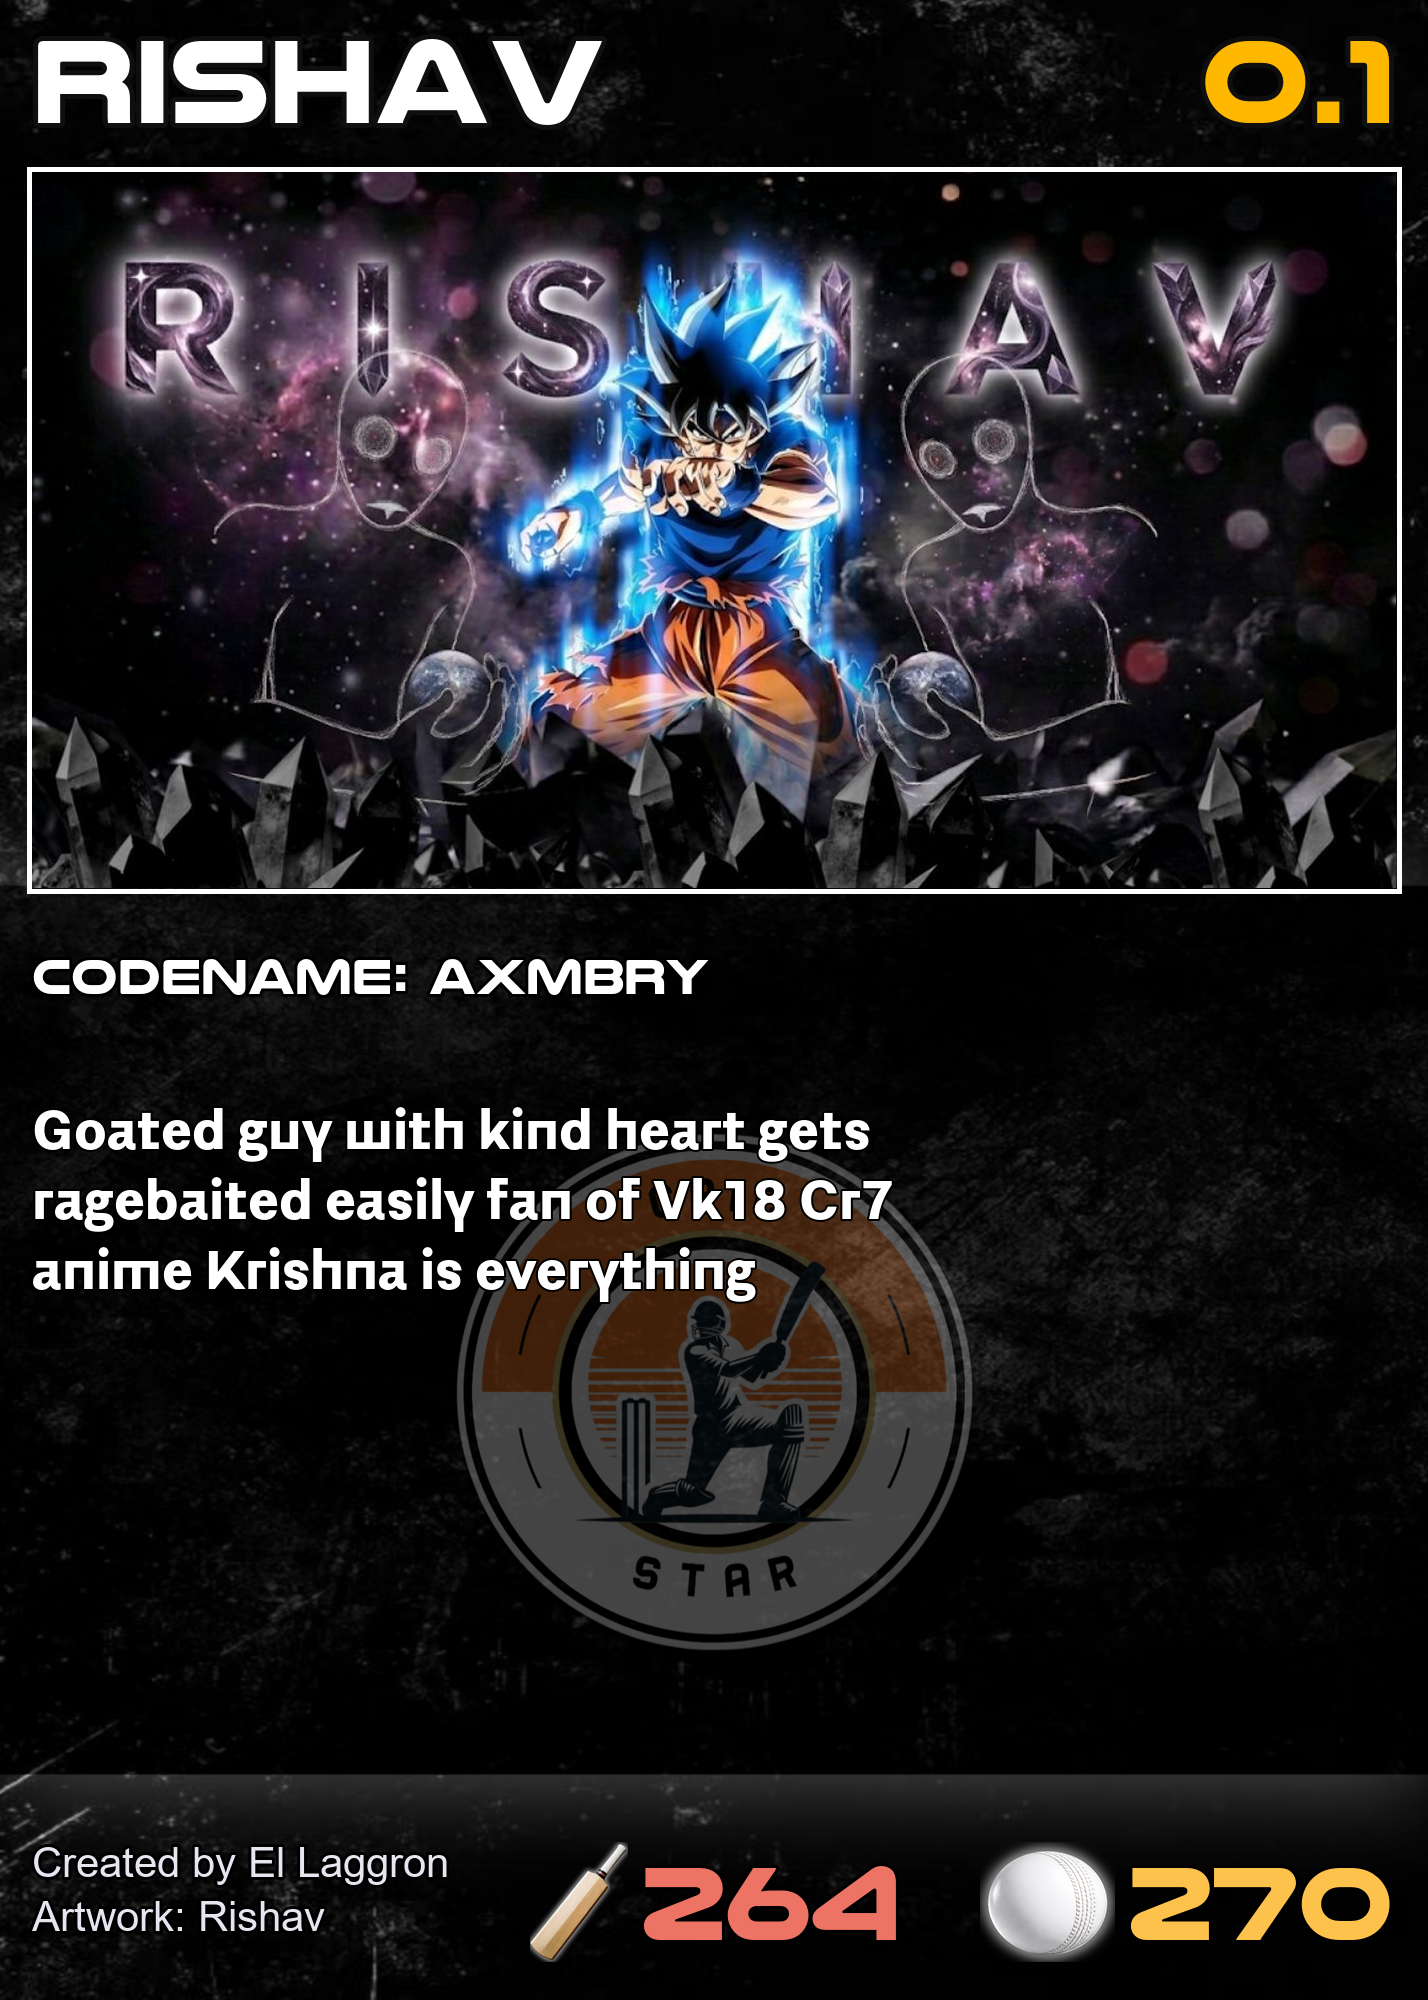
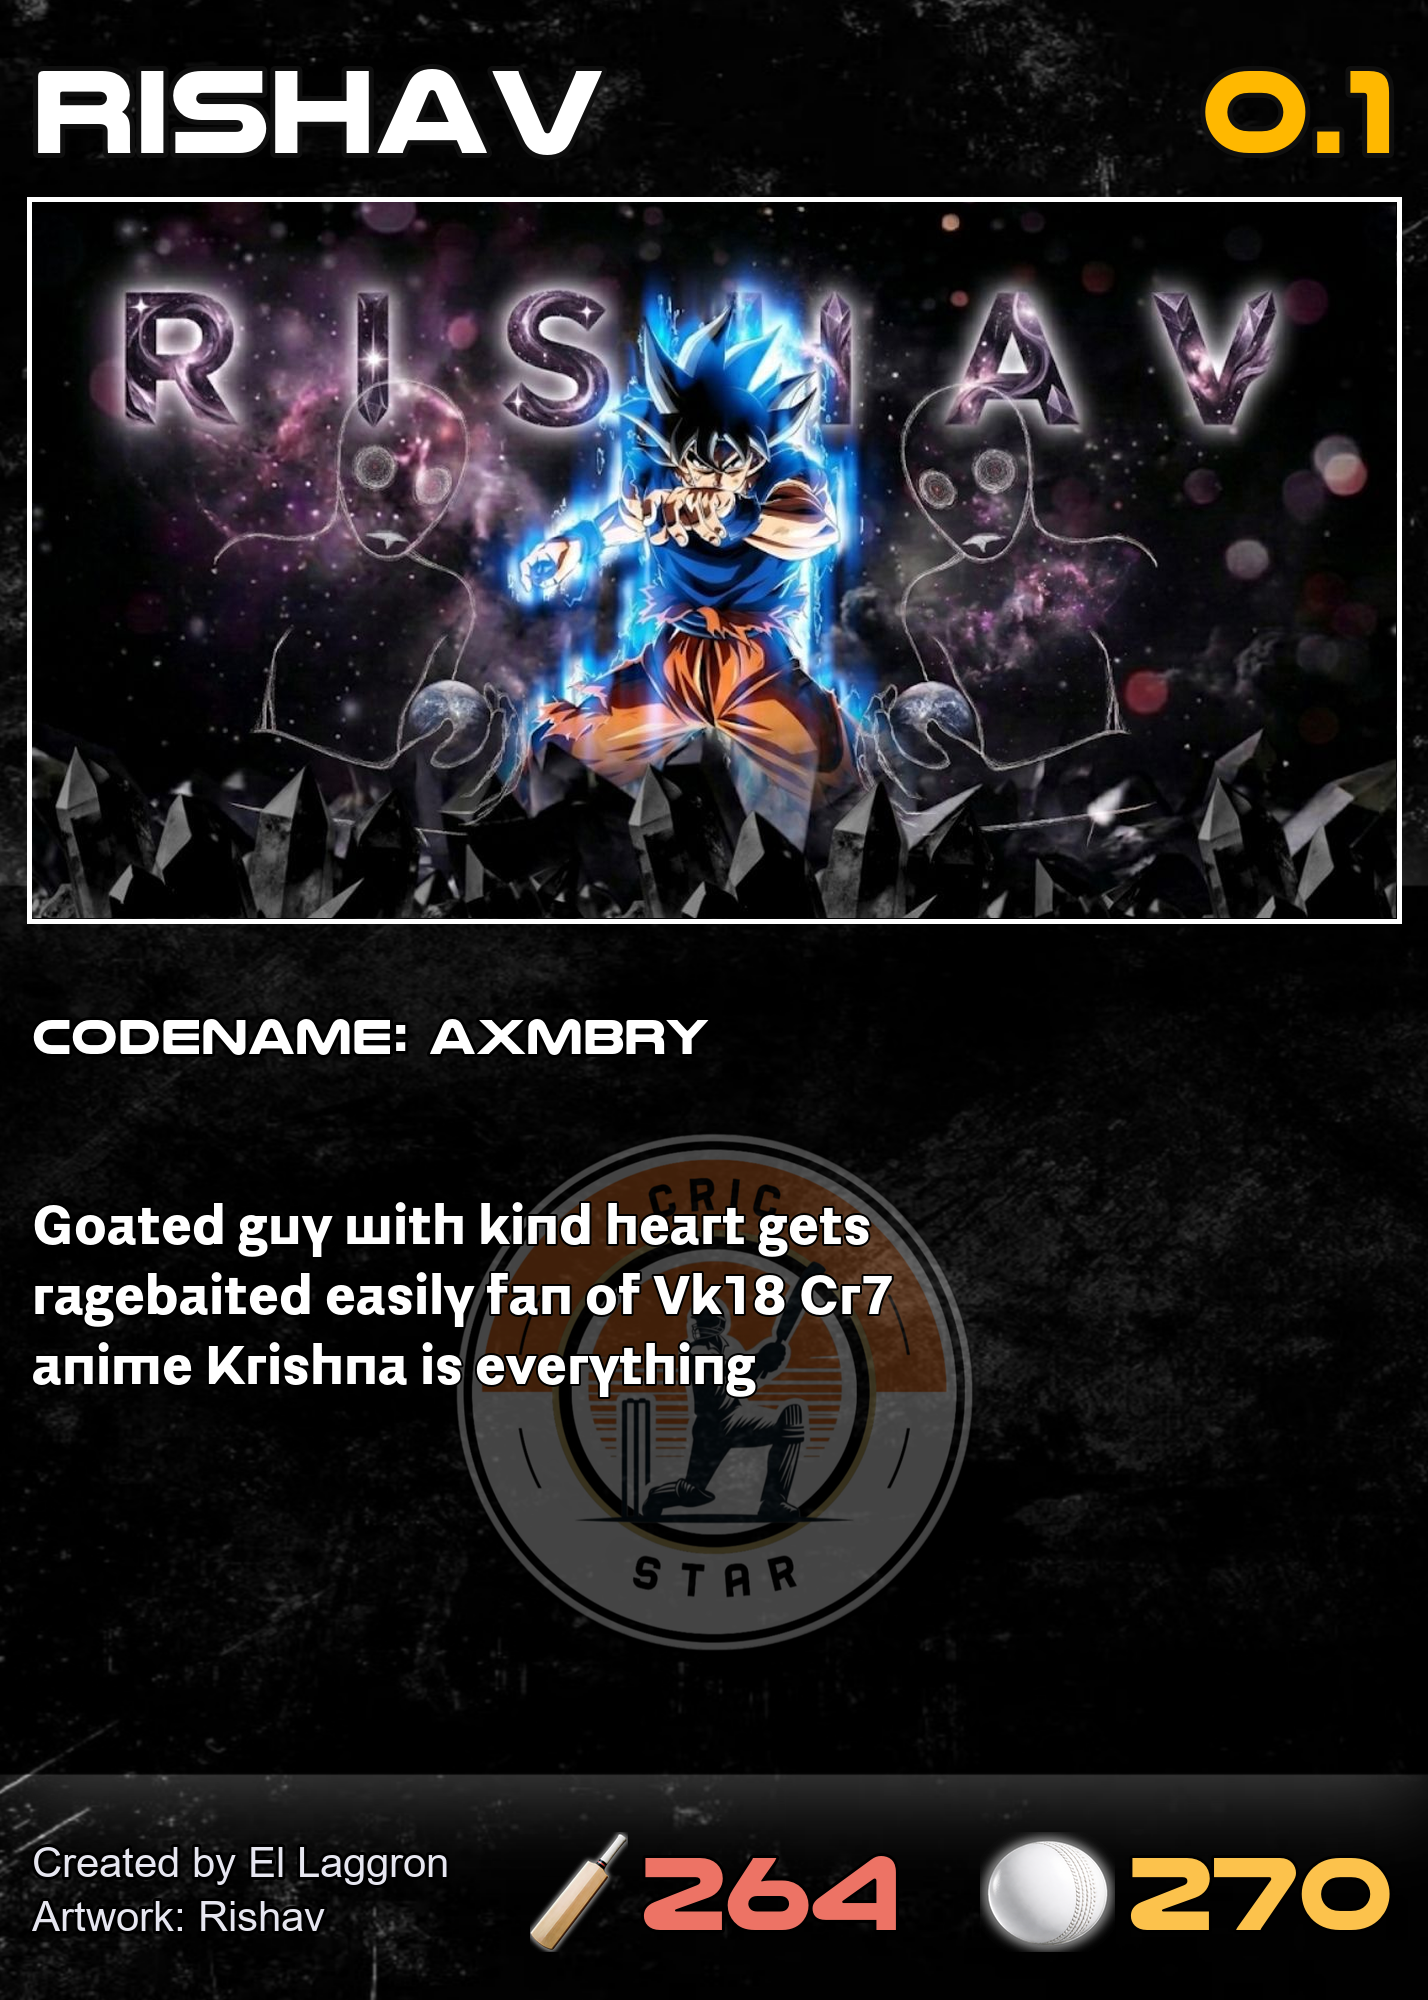
Adjust element positions to lower them on the card
Update vertical positioning of frame, codename, description, and name/rarity elements in the image generation module.

Replit-Commit-Author: Agent
Replit-Commit-Session-Id: 63eef69e-7baf-4389-9de5-37bcb6ae2cd5
Replit-Commit-Checkpoint-Type: full_checkpoint
Replit-Commit-Event-Id: 88e2fefd-f45c-44fa-a466-4aba8ff1fc05
Replit-Helium-Checkpoint-Created: true

diff --git a/cricstar/core/image_generator/image_gen.py b/cricstar/core/image_generator/image_gen.py
@@ -354,14 +354,14 @@ def draw_premade_card(
 
     TOP_BAR_H  = 130                       # height of name / rarity strip
     FRAME_X    = MARGIN
-    FRAME_Y    = TOP_BAR_H + 72           # +30 px
+    FRAME_Y    = TOP_BAR_H + 137          # +65 px
     FRAME_W    = CARD_W - 2 * MARGIN      # 1364 px
     FRAME_H    = 716                       # frame height
     FRAME_BOTTOM = FRAME_Y + FRAME_H
 
     INFO_Y     = FRAME_BOTTOM + 36        # where text panel begins
-    CODENAME_Y = INFO_Y + 52             # +30 px lower
-    DESC_Y     = CODENAME_Y + 184        # +35 px lower
+    CODENAME_Y = INFO_Y + 117            # +65 px lower
+    DESC_Y     = CODENAME_Y + 224       # +40 px lower
 
     BAR_H  = 180                          # bottom stats bar height
     BAR_Y  = CARD_H - BAR_H              # 1820
@@ -397,7 +397,7 @@ def draw_premade_card(
     rarity_str = str(rarity)
     name_text  = player_name.upper()
 
-    NAME_RARITY_Y = TOP_BAR_H // 2 + 45   # +30 px lower
+    NAME_RARITY_Y = TOP_BAR_H // 2 + 110  # +65 px lower
 
     # Rarity — right-aligned, gold
     draw.text(
